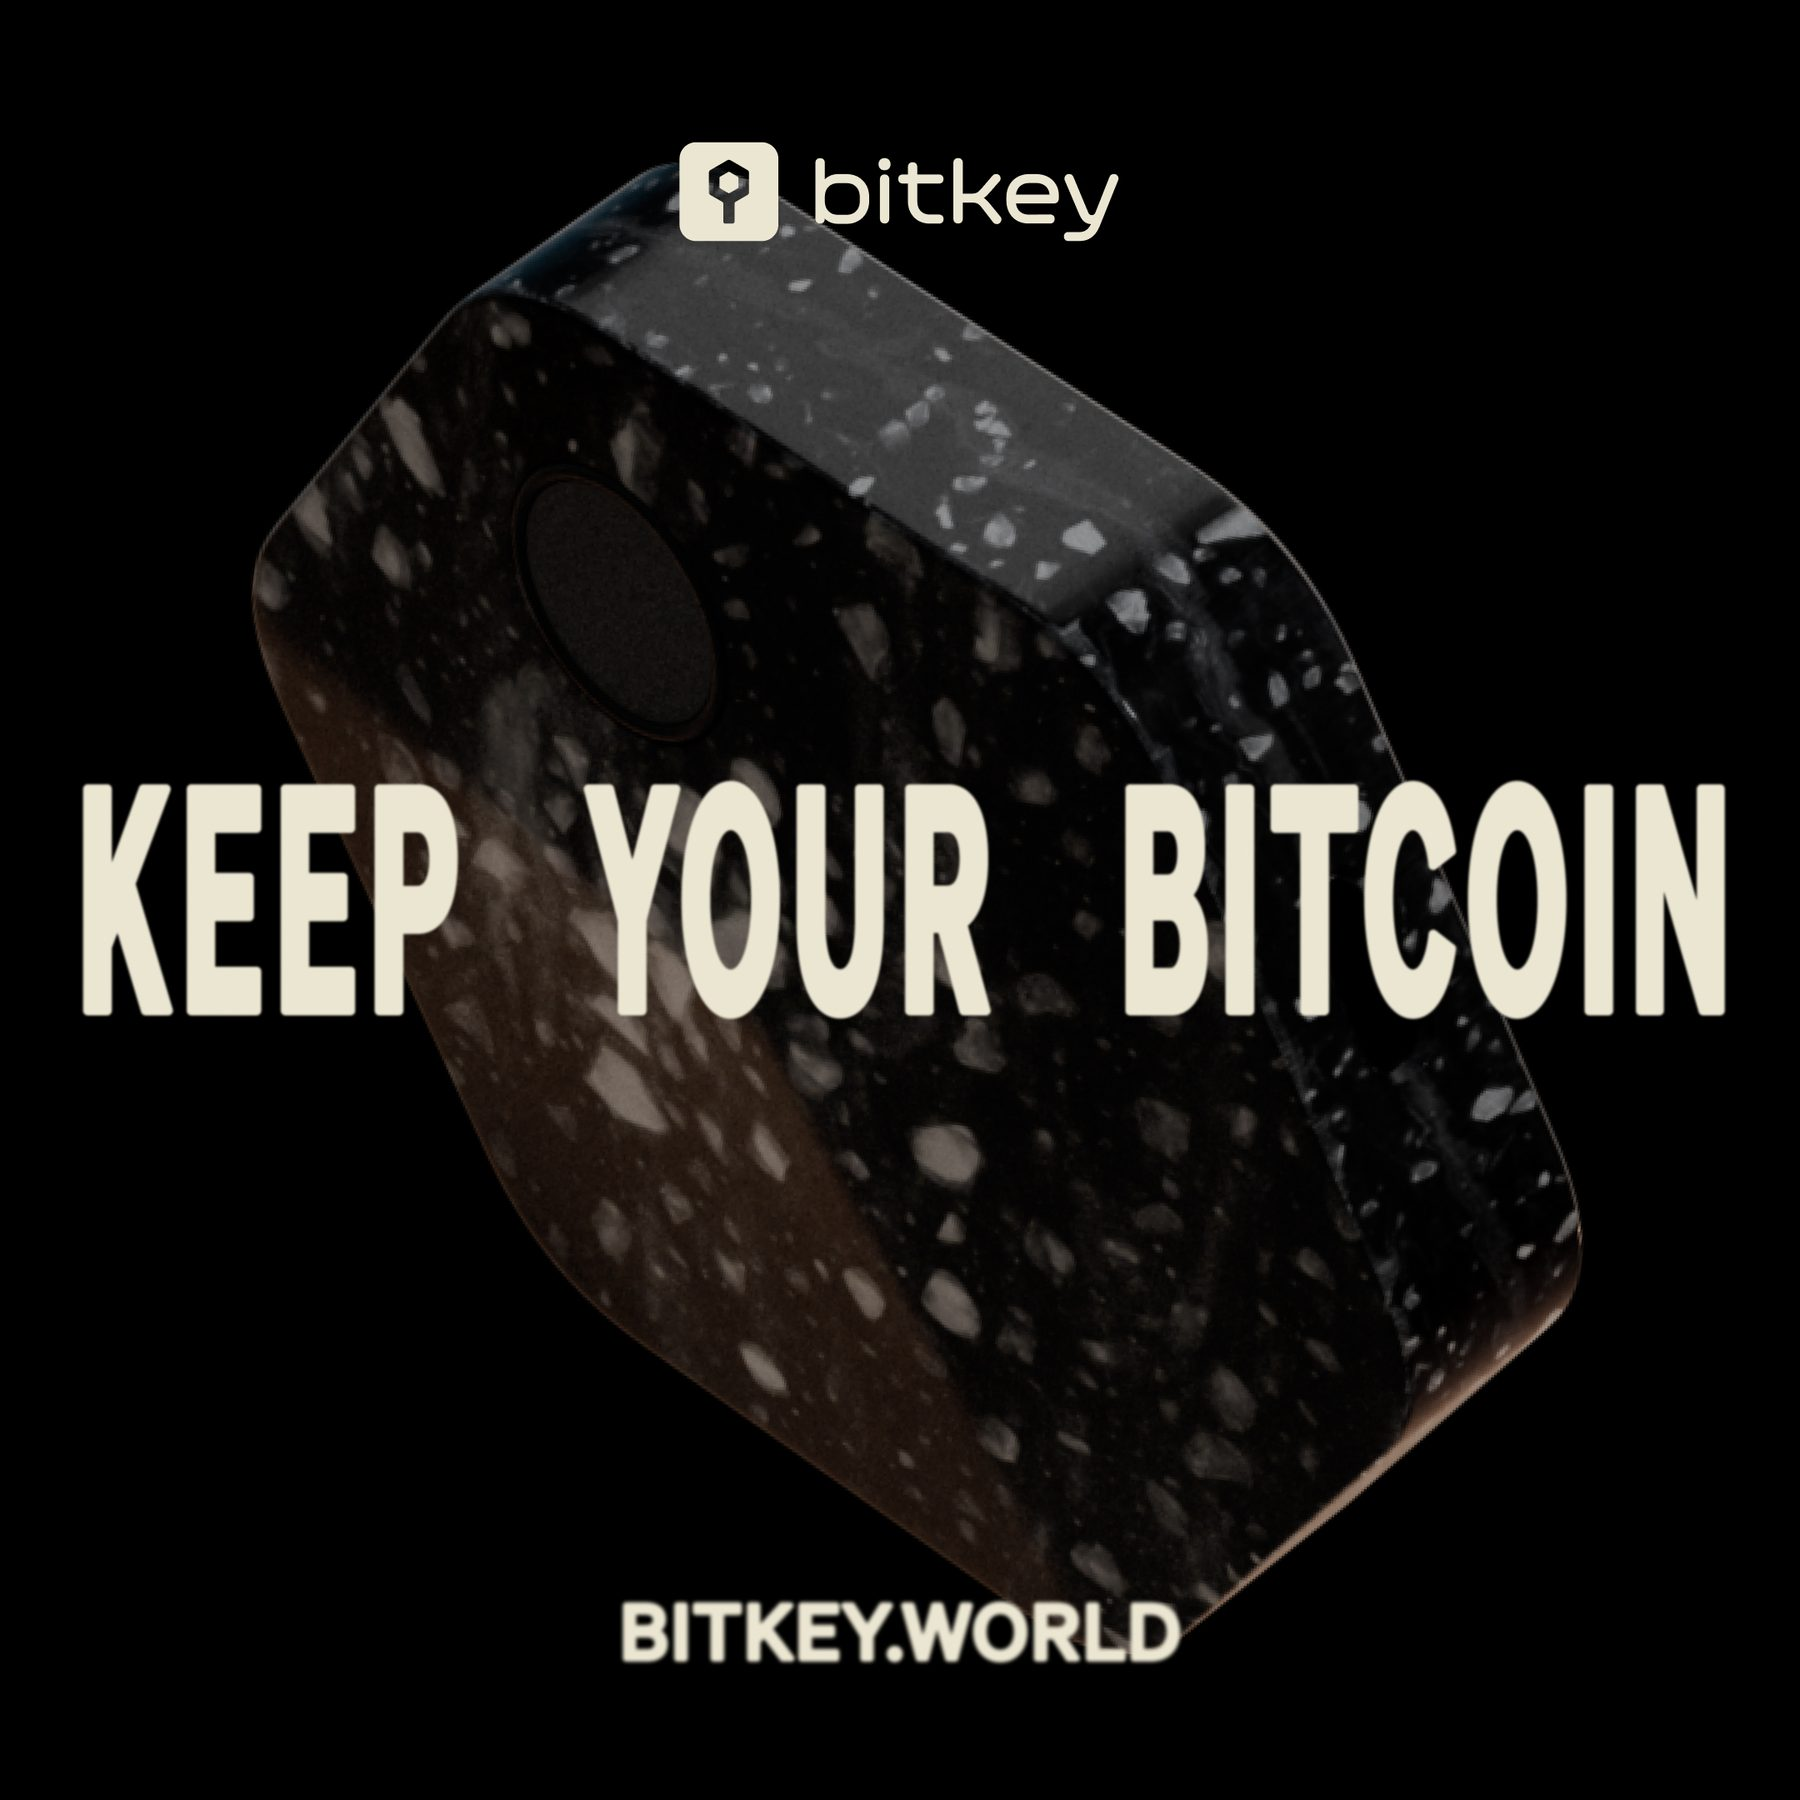
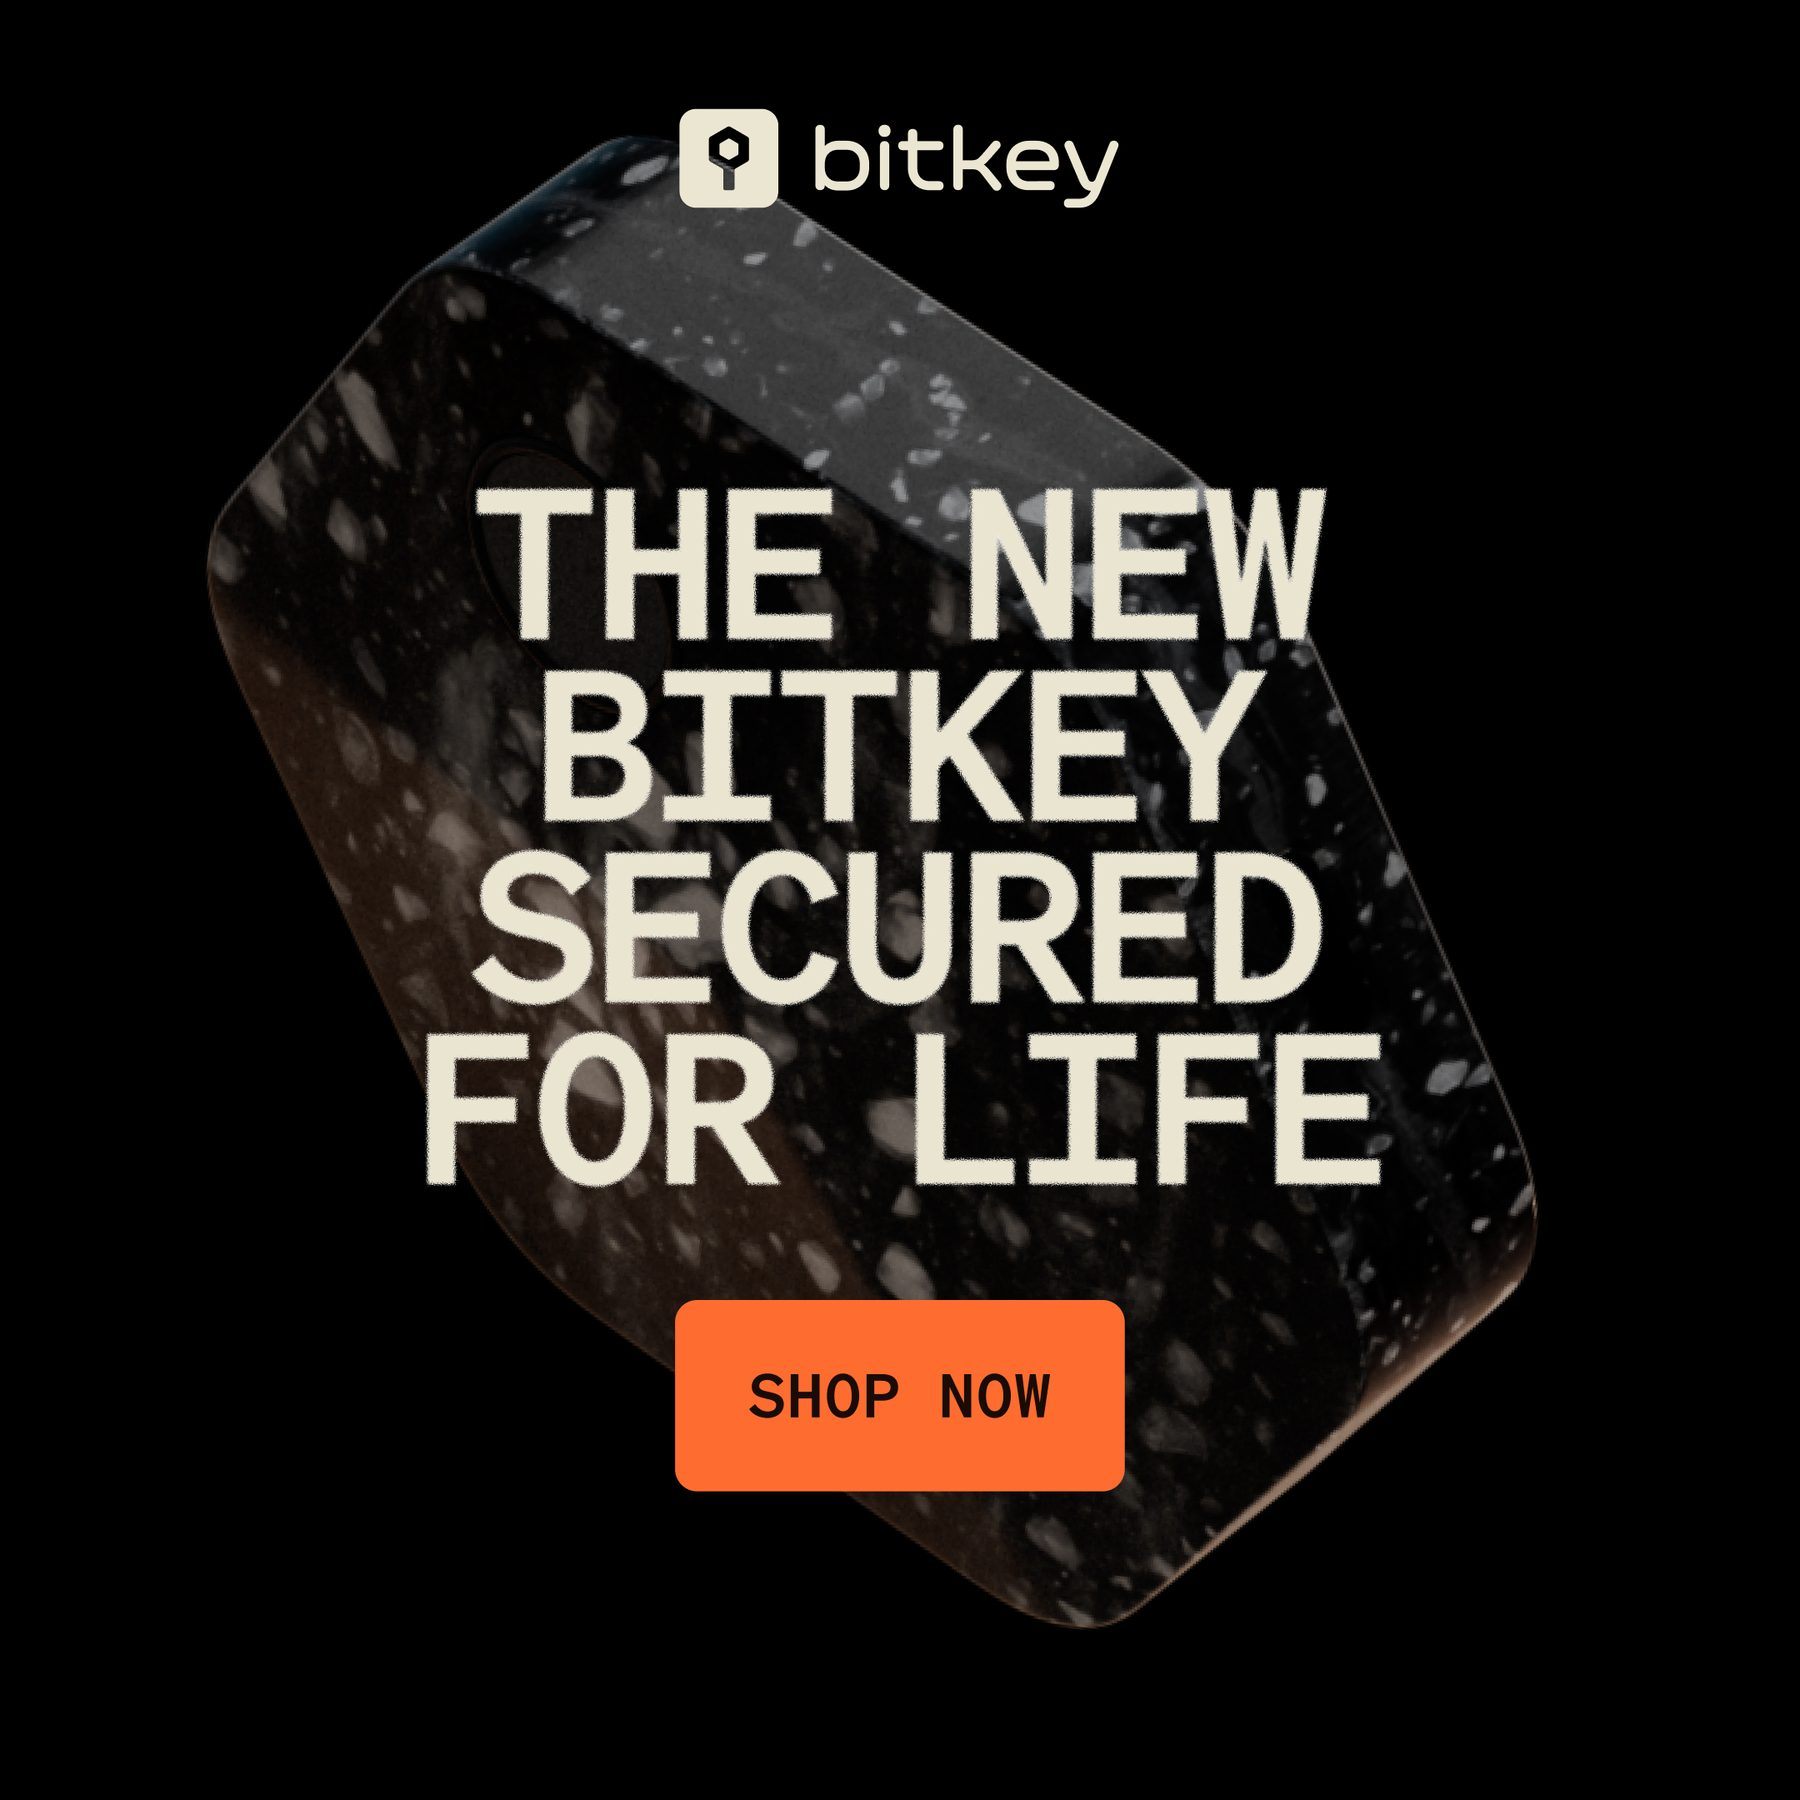
Add 2 videos to Bitkey gallery (compressed 27.5MB/53.8MB down to 0.5MB/1.5MB, audio stripped); gallery videos now autoplay muted

Changed region(s): [[0.0311, 0.0622, 0.9644, 0.9333], [0.56, 0.1867, 0.5911, 0.2178], [0.3111, 0.7156, 0.3422, 0.7467]]

diff --git a/index.html b/index.html
@@ -371,7 +371,7 @@ const projects = [
     impact:'',
     stats:[],
     tags:["GTM","HARDWARE","SELF-CUSTODY"],
-    gallery:['assets/new-projects/gallery/bitkey-ng/bitkey-ng-gallery-1.jpg','assets/new-projects/gallery/bitkey-ng/bitkey-ng-gallery-2.jpg','assets/new-projects/gallery/bitkey-ng/bitkey-ng-gallery-3.jpg','assets/new-projects/gallery/bitkey-ng/bitkey-ng-gallery-4.jpg','assets/new-projects/gallery/bitkey-ng/bitkey-ng-gallery-5.jpg']
+    gallery:['assets/new-projects/gallery/bitkey-ng/bitkey-ng-gallery-1.jpg','assets/new-projects/gallery/bitkey-ng/bitkey-ng-gallery-2.mp4','assets/new-projects/gallery/bitkey-ng/bitkey-ng-gallery-3.mp4','assets/new-projects/gallery/bitkey-ng/bitkey-ng-gallery-4.jpg']
   }},
   { id:'btc-day', brand:"Block", name:"Bitcoin Day", img:'assets/new-projects/btc-day-thumb.jpg', size:'1x', isNew:true, detail:{
     heroImg:'',
@@ -858,7 +858,7 @@ function op(id) {
     const canMoveR = d.gallery && origIdx < d.gallery.length - 1;
     const reorderBtns = isEdit ? '<div class="reorder-btns"><button '+(canMoveL?'':'disabled')+' onclick="moveGalleryImg('+origIdx+',-1)" title="Move earlier">\u2039</button><button '+(canMoveR?'':'disabled')+' onclick="moveGalleryImg('+origIdx+',1)" title="Move later">\u203a</button></div>' : '';
     const media = isVideoFile(u)
-      ? '<video src="'+url+'" style="width:100%;border-radius:10px;height:250px;object-fit:cover" muted loop playsinline controls></video>'
+      ? '<video src="'+url+'" style="width:100%;border-radius:10px;height:250px;object-fit:cover" autoplay muted loop playsinline controls></video>'
       : '<img src="'+url+'" alt="" loading="lazy" style="width:100%;border-radius:10px;height:250px;object-fit:cover">';
     return '<div style="position:relative">'+editBtn+delBtn+reorderBtns+media+'</div>';
   }).join('');